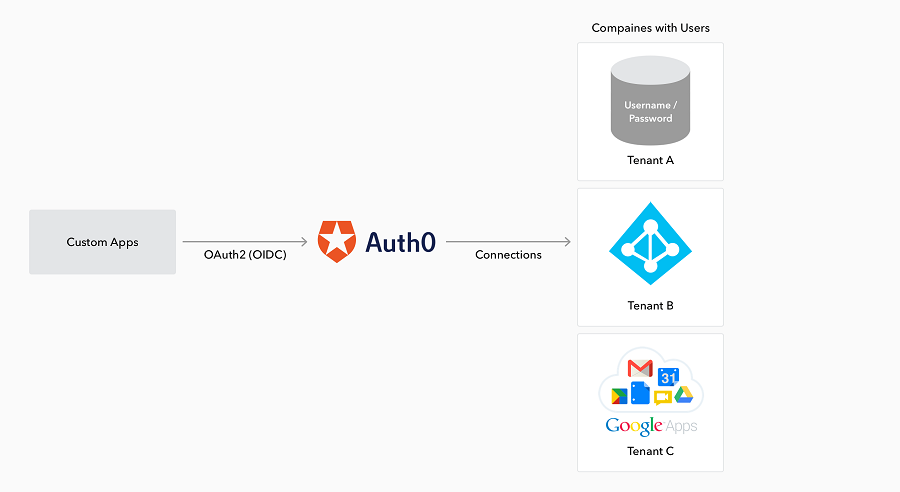
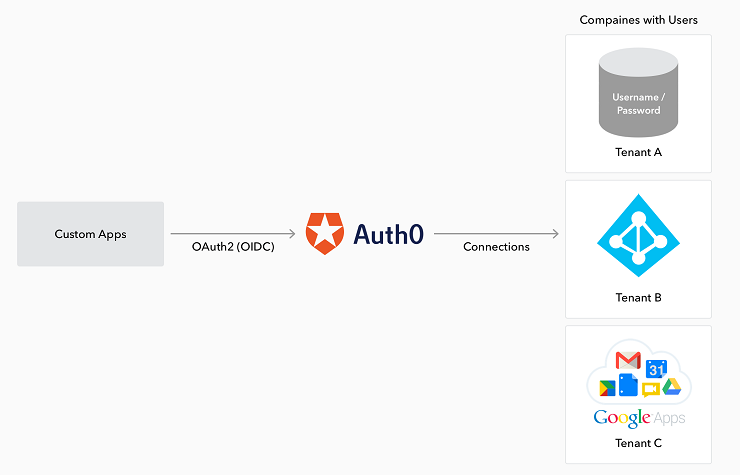
Small tweaks
Resized image
Added missing periods to descriptions for sections
Rewrote checklists intro and renamed file

diff --git a/articles/architecture-scenarios/checklists.md b/articles/architecture-scenarios/checklists.md
@@ -1,5 +1,5 @@
 ---
-title: Implementation Checklists
+title: Implementation Planning Checklists
 description: Links to checklists for your implementation. 
 topics:
     - SDLC
@@ -10,15 +10,9 @@ contentType: reference
 useCase:
     - implementation
 ---
-# Implementation Checklists
+# Implementation Planning Checklists
 
-Auth0 provides checklists in spreadsheet format that align with typical SDLC (Software Development Life Cycle) phases. Not all of the items in the checklists will apply to you, so we recommend that you use the checklists as a starting point for planning and implementation.  
-
-## How to use the checklists
-
-1. Click the links below to download each checklist.
-2. Open the checklist in any spreadsheet application.
-3. Customize the checklists to suit your needs.
+Click the each link below to download a checklist that corresponds to a phase in the SDLC (Software Development Lifecycle). You can open the checklist in any spreadsheet application and customize them to suit your needs. 
 
 ## ![](/media/articles/architecture-scenarios/checklists/file_type_icons-02.png) [Analyze Checklist](/media/articles/architecture-scenarios/checklists/Analyze-Checklist.xlsx)
 

diff --git a/articles/architecture-scenarios/_includes/_planning.md b/articles/architecture-scenarios/_includes/_planning.md
@@ -1,6 +1,6 @@
 <% if (platform === "b2c") { %>
-To help you with planning your implementation, we've put together some [planning guidance](/media/articles/architecture-scenarios/planning/B2C-Project-Planning.pdf) that details our recommended strategies. 
+To help you with planning your implementation, we've created some [planning guidance](/media/articles/architecture-scenarios/planning/B2C-Project-Planning.pdf) in PDF format that you can download and refer to for details about our recommended strategies. 
 <%  } %>
 <% if (platform === "b2b") { %>
-To help you with planning your implementation, we've put together some [planning guidance](/media/articles/architecture-scenarios/planning/B2B-Project-Planning.pdf) that details our recommended strategies. 
+To help you with planning your implementation, we've created some [planning guidance](/media/articles/architecture-scenarios/planning/B2B-Project-Planning.pdf) in PDF format that you can download and refer to for details about our recommended strategies. 
 <%  } %>

diff --git a/articles/architecture-scenarios/_includes/_implementation-checklists.md b/articles/architecture-scenarios/_includes/_implementation-checklists.md
@@ -1,1 +1,1 @@
-Auth0 also provides helpful implementation planning [checklists](/architecture-scenarios/checklists) that you can use to organize your implementation tasks. Though all of these may not apply to you, there are six checklists, each of which is provided in Google Sheets format and aligns with a particular phase of a typical SDLC (Software Development Life Cycle).
+Auth0 provides helpful implementation planning [checklists](/architecture-scenarios/checklists) in spreadsheet format that you can use to organize your implementation tasks. Each checklist aligns with a particular phase of a typical SDLC (Software Development Life Cycle). Not all of the items in the checklists will apply to you, however we recommend that you use the checklists as a starting point for planning and implementation.

diff --git a/articles/architecture-scenarios/b2b.md b/articles/architecture-scenarios/b2b.md
@@ -42,8 +42,6 @@ useCase:
   'architecture-scenarios/implementation/b2b/b2b-operations'
 ] }) %>
 
-## Implementation checklists
+## Implementation planning checklists
 
-<%= include('../_includes/_topic-links', { links: [
-  'architecture-scenarios/checklists'
-] }) %>
+<%= include('./_includes/_implementation-checklists.md', { platform: 'b2b' }) %>

diff --git a/articles/architecture-scenarios/implementation/b2b/b2b-branding.md b/articles/architecture-scenarios/implementation/b2b/b2b-branding.md
@@ -1,6 +1,6 @@
 ---
 title: Branding
-description: Understand how you can configure Auth0 items to reflect your brand and desired user experience
+description: Understand how you can configure Auth0 items to reflect your brand and desired user experience.
 toc: true
 topics:
     - b2b

diff --git a/articles/architecture-scenarios/implementation/b2c/b2c-branding.md b/articles/architecture-scenarios/implementation/b2c/b2c-branding.md
@@ -1,6 +1,6 @@
 ---
 title: Branding
-description: Understand how you can configure Auth0 items to reflect your brand and desired user experience
+description: Understand how you can configure Auth0 items to reflect your brand and desired user experience.
 toc: true
 topics:
     - b2c

diff --git a/articles/architecture-scenarios/implementation/b2c/b2c-architecture.md b/articles/architecture-scenarios/implementation/b2c/b2c-architecture.md
@@ -1,6 +1,6 @@
 ---
 title: Architecture
-description: Understand how Auth0 lets you create Auth0 tenants for one or more environments
+description: Understand how Auth0 lets you create Auth0 tenants for one or more environments.
 toc: true
 topics:
     - b2c

diff --git a/articles/architecture-scenarios/implementation/b2b/b2b-deployment.md b/articles/architecture-scenarios/implementation/b2b/b2b-deployment.md
@@ -1,6 +1,6 @@
 ---
 title: Deployment Automation
-description: Understand how Auth0 tooling helps to automate tenant deployment
+description: Understand how Auth0 tooling helps to automate tenant deployment.
 toc: true
 topics:
     - b2b

diff --git a/articles/architecture-scenarios/implementation/b2c/b2c-deployment.md b/articles/architecture-scenarios/implementation/b2c/b2c-deployment.md
@@ -1,6 +1,6 @@
 ---
 title: Deployment Automation
-description: Understand how Auth0 tooling helps to automate tenant deployment
+description: Understand how Auth0 tooling helps to automate tenant deployment.
 toc: true
 topics:
     - b2c

diff --git a/articles/architecture-scenarios/implementation/b2b/b2b-operations.md b/articles/architecture-scenarios/implementation/b2b/b2b-operations.md
@@ -1,6 +1,6 @@
 ---
 title: Operations
-description: Understand operationalization of your Auth0 tenant environments
+description: Understand operationalization of your Auth0 tenant environments.
 toc: true
 topics:
     - b2b

diff --git a/articles/architecture-scenarios/implementation/b2c/b2c-operations.md b/articles/architecture-scenarios/implementation/b2c/b2c-operations.md
@@ -1,6 +1,6 @@
 ---
 title: Operations
-description: Understand operationalization of your Auth0 tenant environments
+description: Understand operationalization of your Auth0 tenant environments.
 toc: true
 topics:
     - b2c
